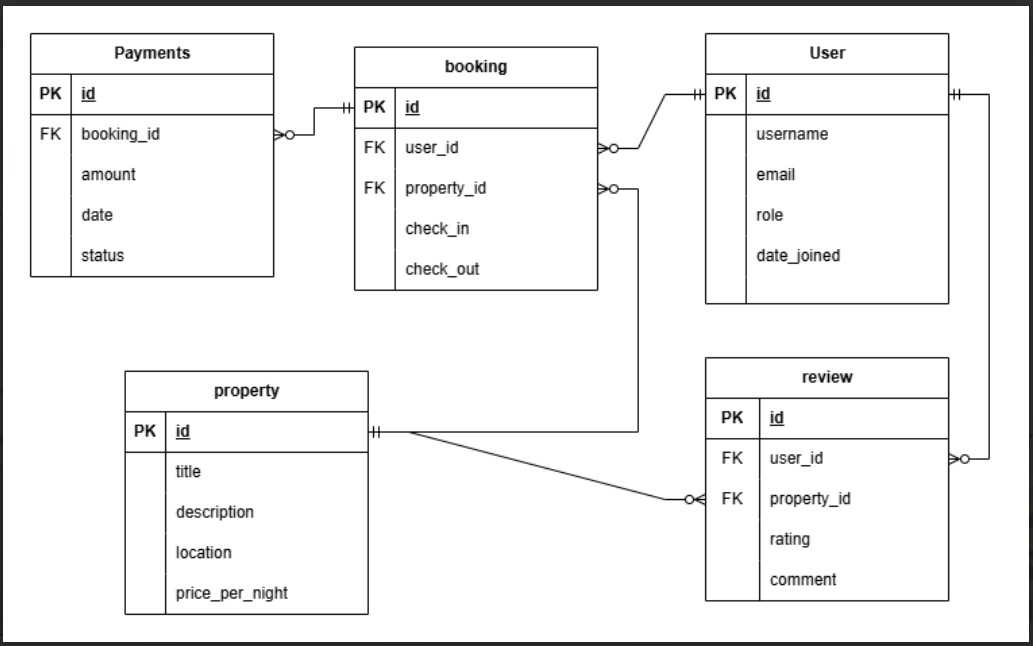
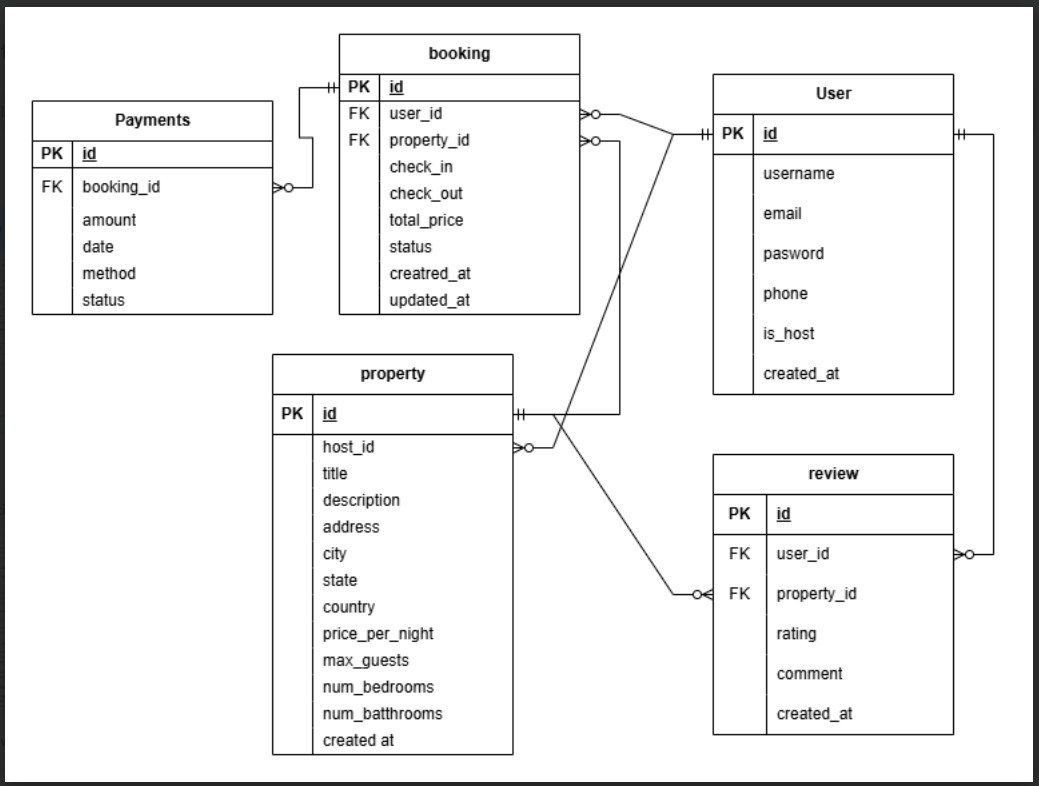
Initiating the database

diff --git a/database-script-0x01/README.md b/database-script-0x01/README.md
@@ -1,0 +1,13 @@
+# Alx Airbnb Database
+
+This repository contains the SQL schema for the **Alx Airbnb Database** backend project. The database is built using **PostgreSQL** and is designed to support features such as user management, property listings, bookings, reviews, and payments.
+
+## 📦 Database: `Alx Airbnb Database`
+
+### 🗂 Core Tables
+- `users`: Stores guest and host account information.
+- `property`: Contains property details posted by hosts.
+- `bookings`: Records guest reservations.
+- `reviews`: Stores user feedback and ratings.
+- `payments`: Handles booking payment details.
+
